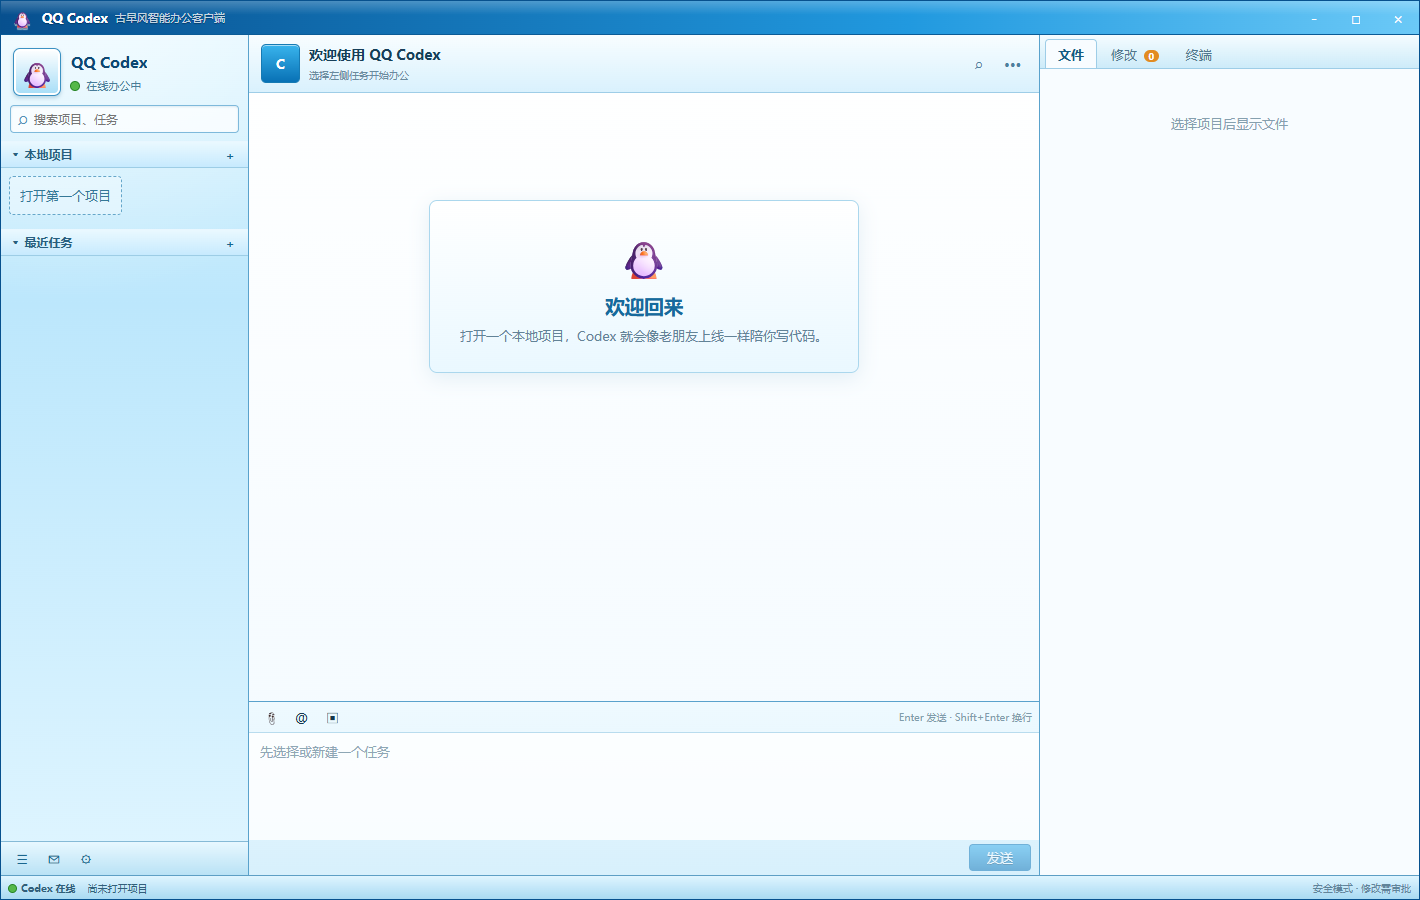
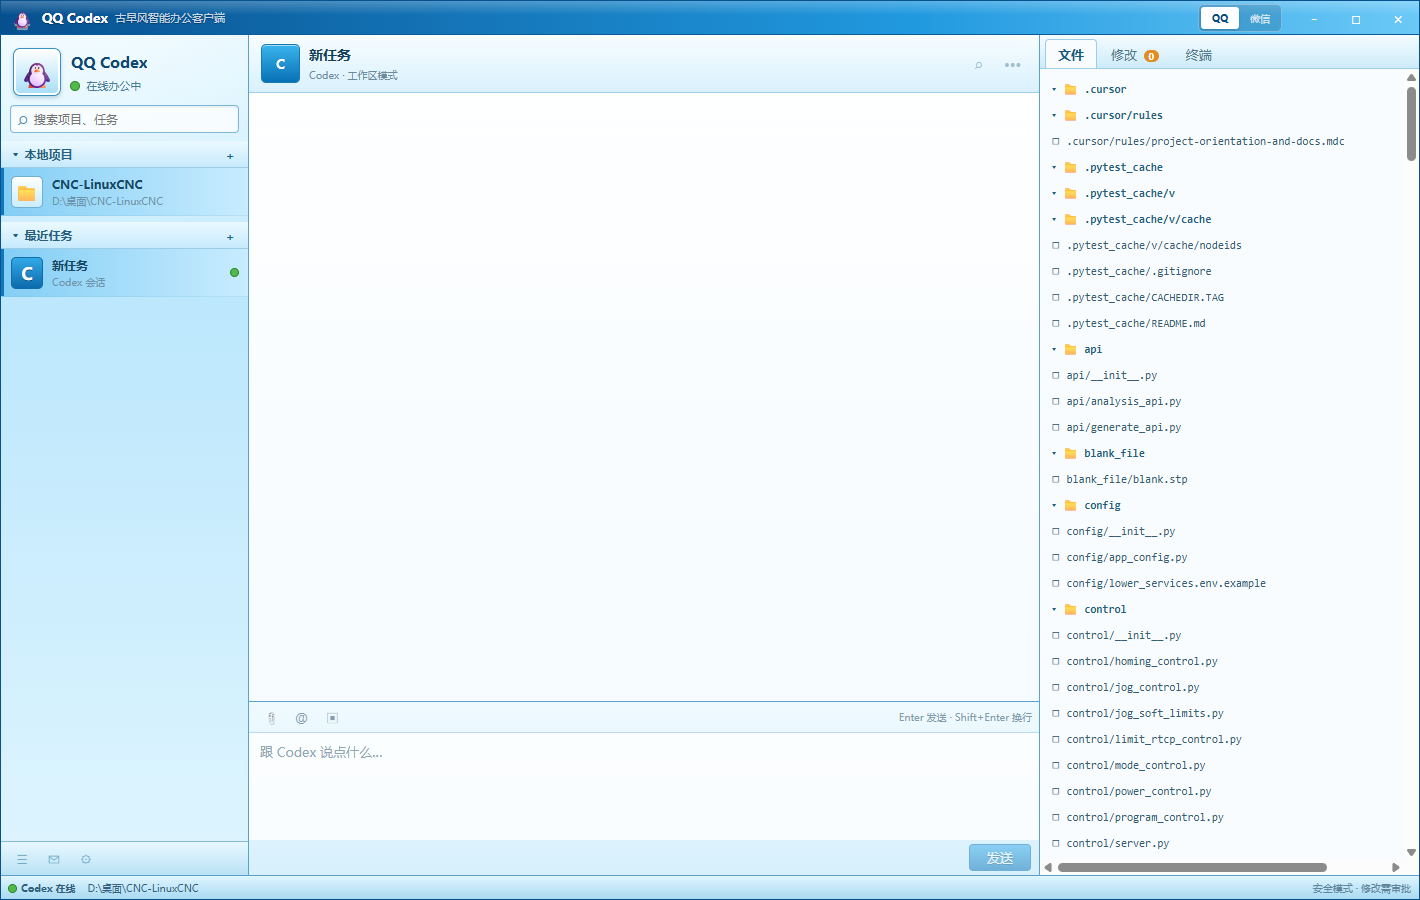
release: prepare dual-theme desktop client 0.2.0

diff --git a/tests/e2e/app.spec.ts b/tests/e2e/app.spec.ts
@@ -1,7 +1,7 @@
 import { _electron as electron, expect, test } from "@playwright/test";
 import { resolve } from "node:path";
 
-test("packaged QQ Codex starts its bundled App Server", async () => {
+test("packaged QQ Codex starts App Server and persists theme changes", async () => {
   const application = await electron.launch({
     executablePath: resolve("release/win-unpacked/QQ Codex.exe"),
   });
@@ -10,6 +10,18 @@ test("packaged QQ Codex starts its bundled App Server", async () => {
     await expect(window).toHaveTitle("QQ Codex");
     await expect(window.getByText("Codex 在线", { exact: true })).toBeVisible({ timeout: 15_000 });
     await expect(window.getByRole("navigation", { name: "项目与任务" })).toBeVisible();
+
+    await window.evaluate(() => window.localStorage.clear());
+    await window.reload();
+    await expect(window.locator(".app-frame")).toHaveAttribute("data-theme", "qq");
+
+    await window.getByRole("button", { name: "微信主题" }).click();
+    await expect(window.locator(".app-frame")).toHaveAttribute("data-theme", "wechat");
+    await expect(window.getByText("微信 Codex", { exact: true })).toBeVisible();
+
+    await window.reload();
+    await expect(window.locator(".app-frame")).toHaveAttribute("data-theme", "wechat");
+    await expect(window.getByRole("button", { name: "微信主题" })).toHaveAttribute("aria-pressed", "true");
   } finally {
     await application.close();
   }

diff --git a/README.md b/README.md
@@ -1,8 +1,10 @@
 # QQ Codex
 
-一个采用 QQ 2009 经典蓝色视觉语言的 Windows Codex 桌面客户端。它不是静态界面演示，底层直接启动官方 `@openai/codex` 包提供的 Codex App Server。
+一个可在 QQ 2009 经典蓝色与现代微信风格之间切换的 Windows Codex 桌面客户端。它不是静态界面演示，底层直接启动官方 `@openai/codex` 包提供的 Codex App Server。
 
 ![QQ Codex 界面预览](preview.png)
+
+![微信主题界面预览](preview-wechat.png)
 
 ## 当前功能
 
@@ -15,6 +17,8 @@
 - 浏览项目文件树
 - 保存最近工作区和任务索引
 - QQ 2009 风格三栏窗口、聊天气泡和状态栏
+- 现代微信风格的深色任务区、灰白聊天区和微信绿消息气泡
+- 在运行中切换 QQ / 微信主题，重启后保留上次选择
 
 ## 运行
 
